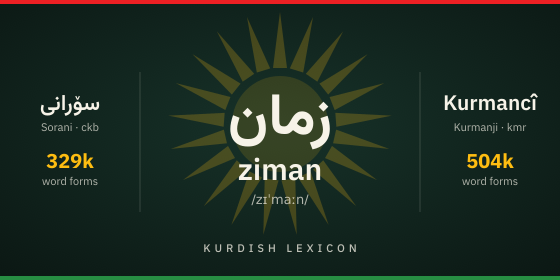
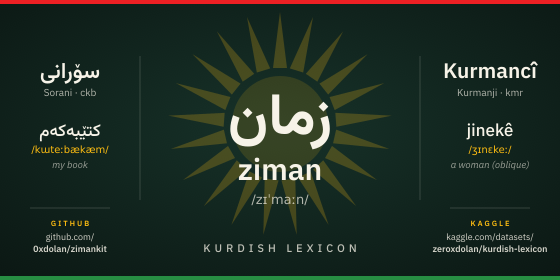
Kaggle cover without counts, with GitHub and Kaggle links; links in the data card
The cover no longer shows row counts, so it does not need re-rendering after a
rebuild. Source and dataset URLs come from [kaggle] in config/pipeline.toml.

diff --git a/zimankit/lexicon/export.py b/zimankit/lexicon/export.py
@@ -413,7 +413,7 @@ COLUMN_DOCS = {
 }
 
 
-def write_data_card(path: Path, stats: dict[str, dict]) -> None:
+def write_data_card(path: Path, stats: dict[str, dict], links: dict[str, str] | None = None) -> None:
     lines = [
         "# Kurdish Lexicon: Sorani (ckb) & Kurmanji (kmr)",
         "",
@@ -421,6 +421,10 @@ def write_data_card(path: Path, stats: dict[str, dict]) -> None:
         "every row is one validated surface form with its lemma, part of speech, morpheme segmentation, "
         "inflectional features, IPA, syllables, both scripts, definitions and corpus frequency.",
         "",
+    ]
+    if links:
+        lines += ["## Links", "", *(f"- **{name}:** {url}" for name, url in links.items()), ""]
+    lines += [
         "## Files",
         "",
         "| file | rows | content |",
@@ -607,10 +611,14 @@ def export(cfg: Config, langs: list[str]) -> dict:
         "words": (WORD_COLUMNS, all_words), "lemmas": (LEMMA_COLUMNS, all_lemmas),
         "spelling_variants": (variant_cols, all_variants),
     })
-    write_data_card(out / "README.md", stats)
+    kaggle = cfg.settings.get("kaggle", {})
+    dataset_id = kaggle.get("dataset_id", "YOUR-KAGGLE-USERNAME/kurdish-lexicon")
+    links = {"Dataset": f"https://www.kaggle.com/datasets/{dataset_id}"}
+    if kaggle.get("source_url"):
+        links["Source code, tutorials and grammar tools (zimankit)"] = kaggle["source_url"]
+    write_data_card(out / "README.md", stats, links)
     if COVER_IMAGE.exists():
         shutil.copyfile(COVER_IMAGE, out / "dataset-cover-image.png")
-    dataset_id = cfg.settings.get("kaggle", {}).get("dataset_id", "YOUR-KAGGLE-USERNAME/kurdish-lexicon")
     write_kaggle_metadata(out / "dataset-metadata.json", stats, dataset_id, (out / "README.md").read_text(encoding="utf-8"))
     if not all(s["parquet"] for s in stats.values()):
         _log("pyarrow not installed: Parquet files skipped (pip install 'zimankit[kaggle]')")
